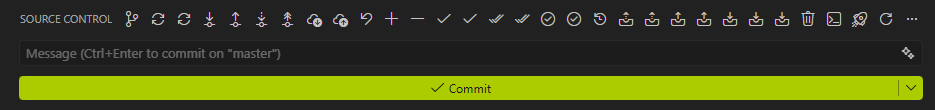
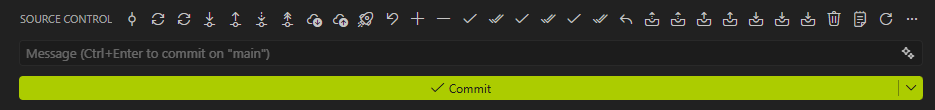
Update preview

diff --git a/CHANGELOG.md b/CHANGELOG.md
@@ -1,3 +1,6 @@
+## Version 0.1.5
+- Updated preview
+
 ## Version 0.1.4
 - Updated button icons
 - Updated button positions
